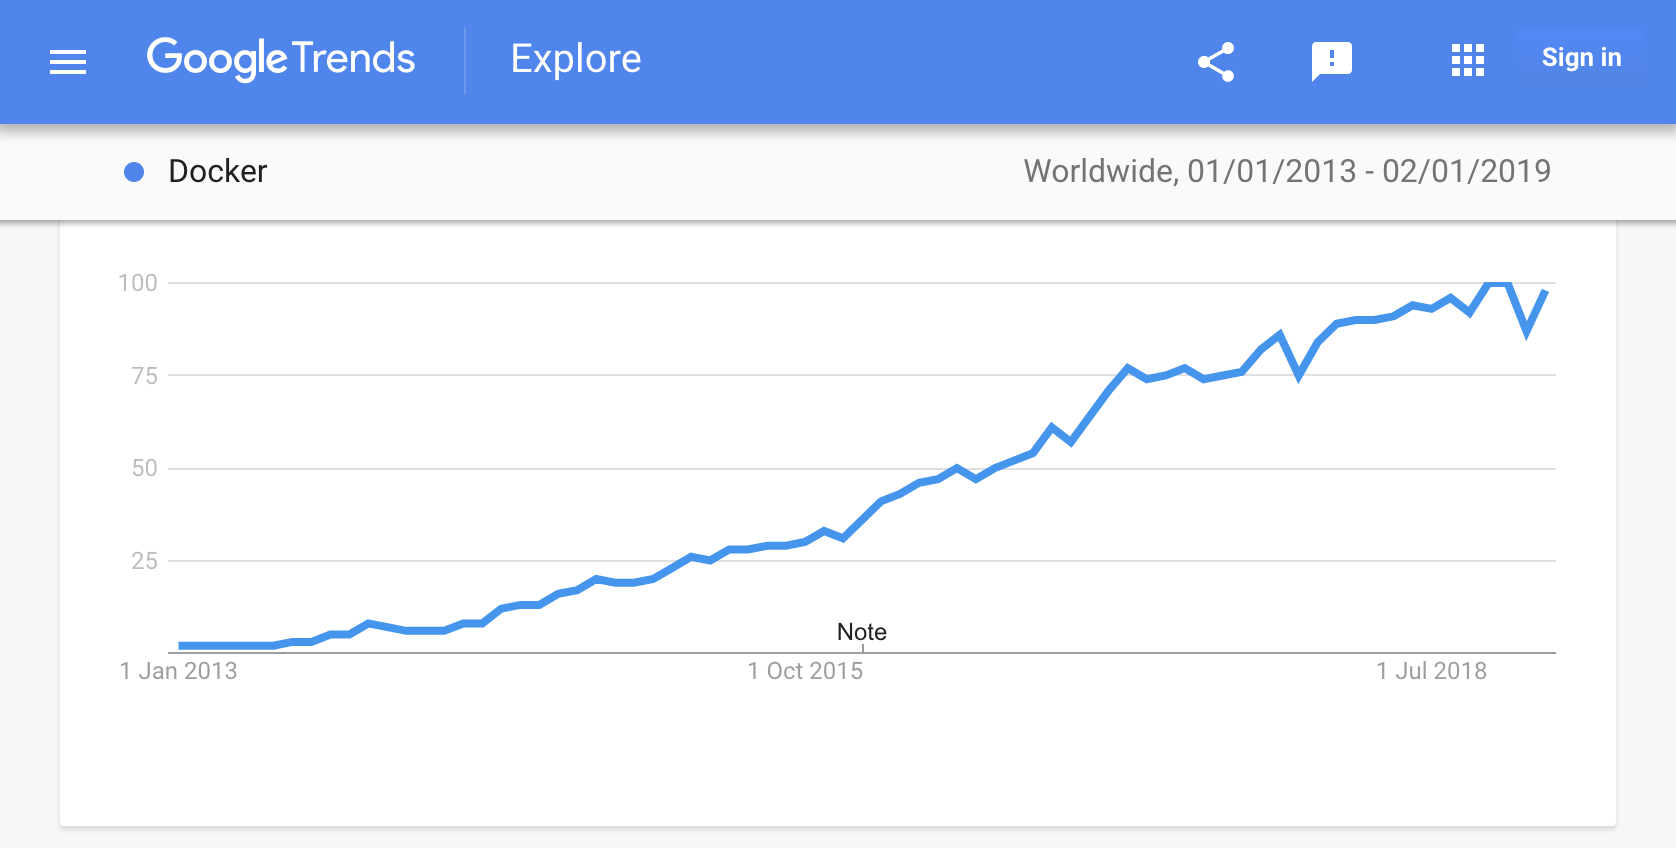
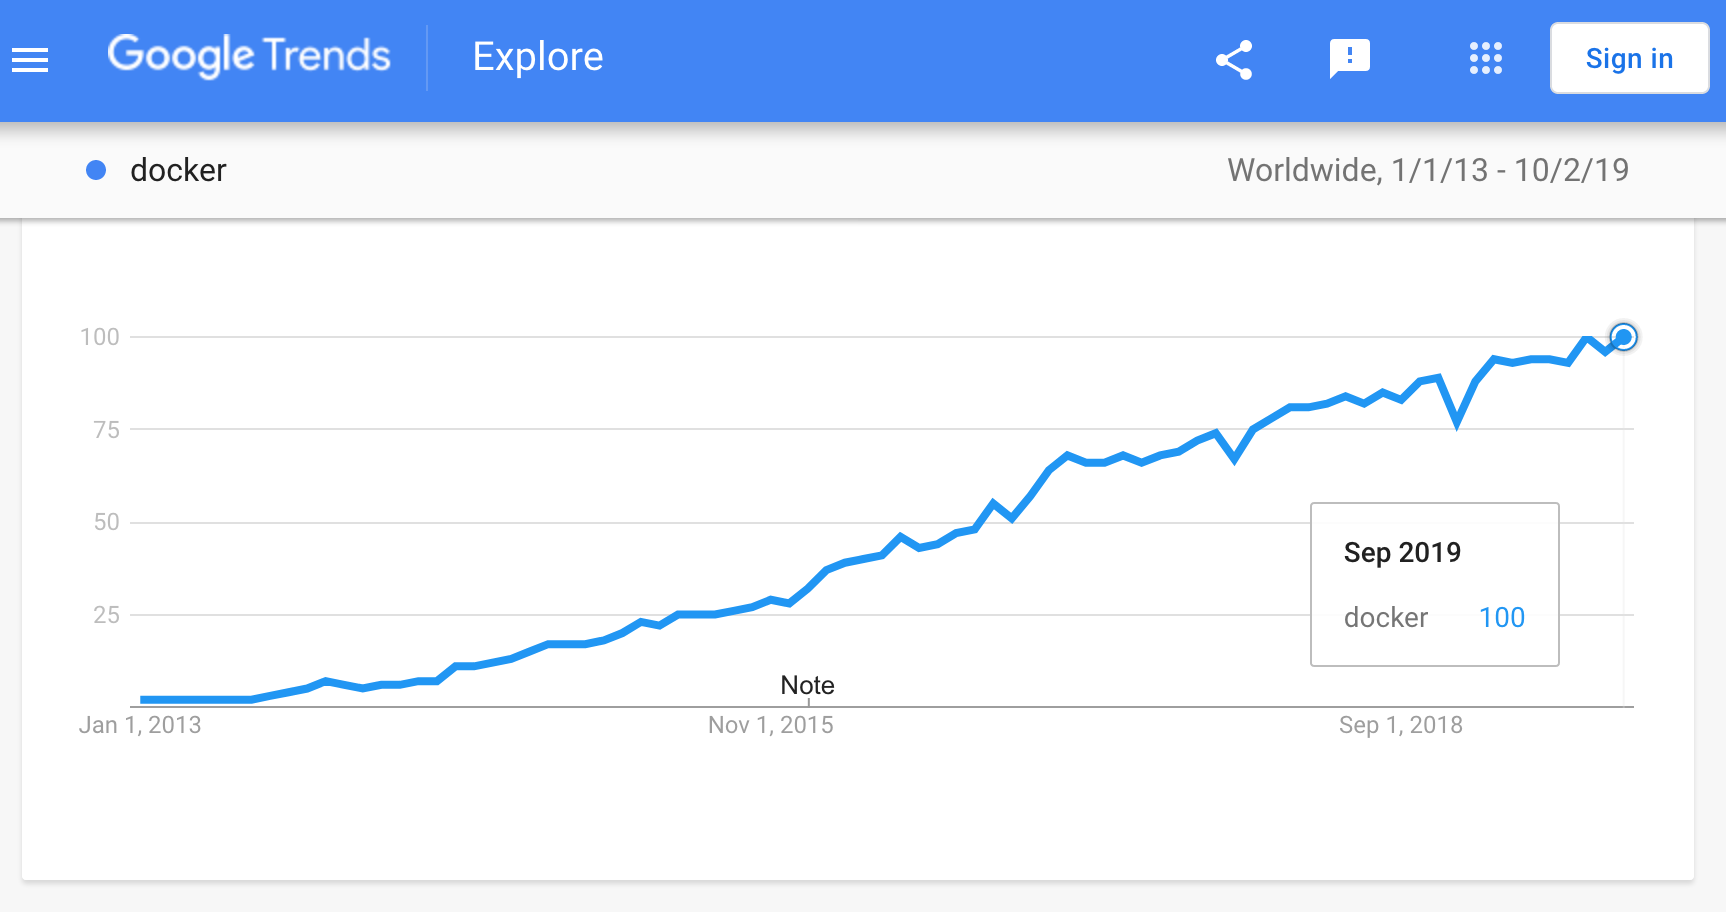
update google trends

diff --git a/docker-workshop/index.html b/docker-workshop/index.html
@@ -112,11 +112,10 @@ template: impact
 
 .content[
 
+<br>
 # What's All The Fuss About
 
-.center.pic-600[
-![Docker on Google Trends](img/docker_trends.png)
-]
+<img height="400px" alt="Docker on Google Trends" src="img/docker_trends.png" />
 
 ]
 
